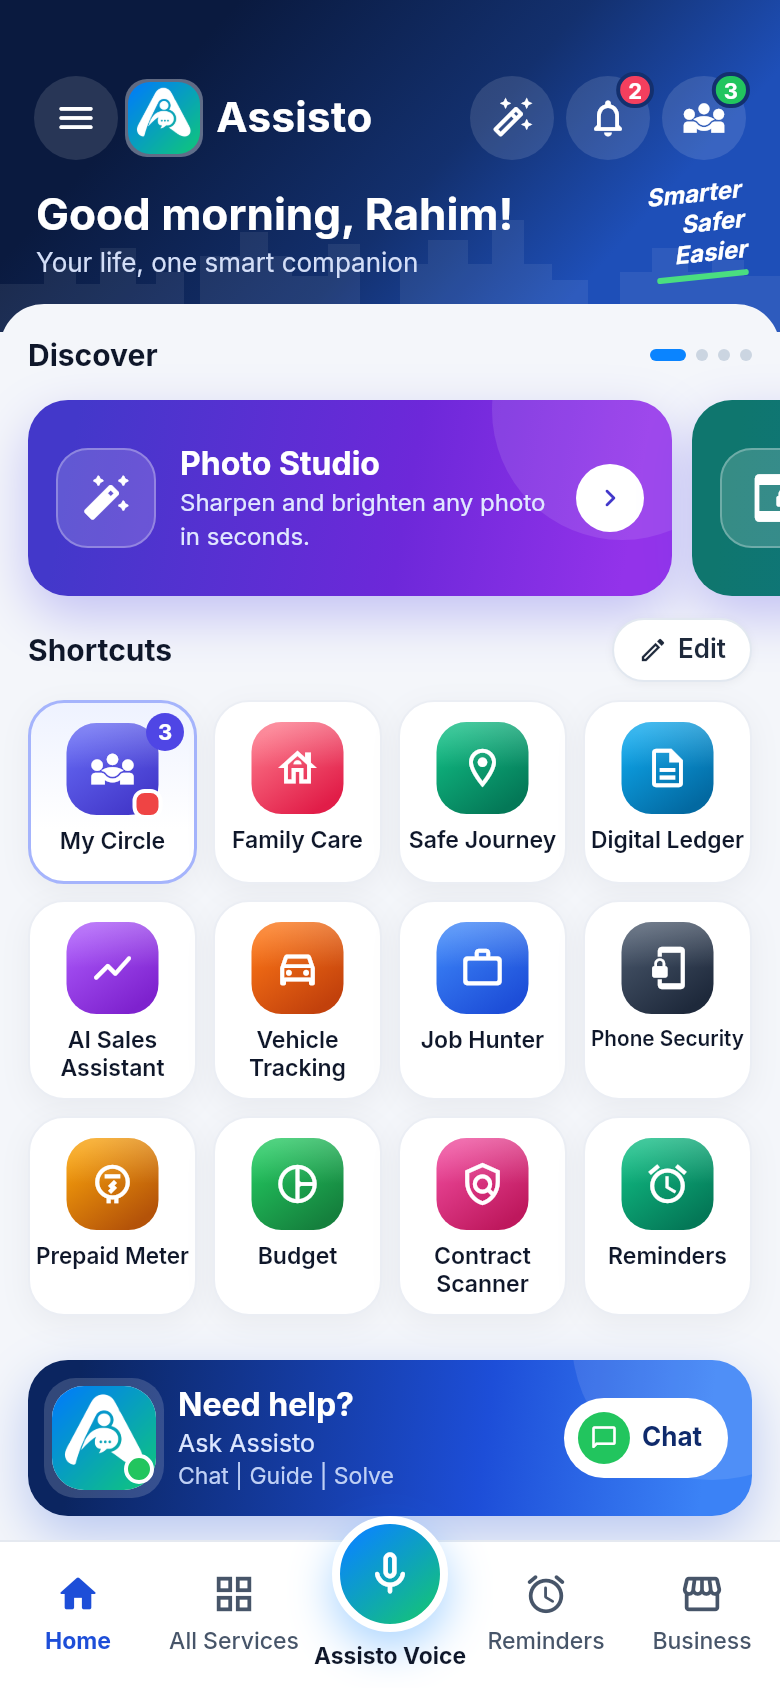
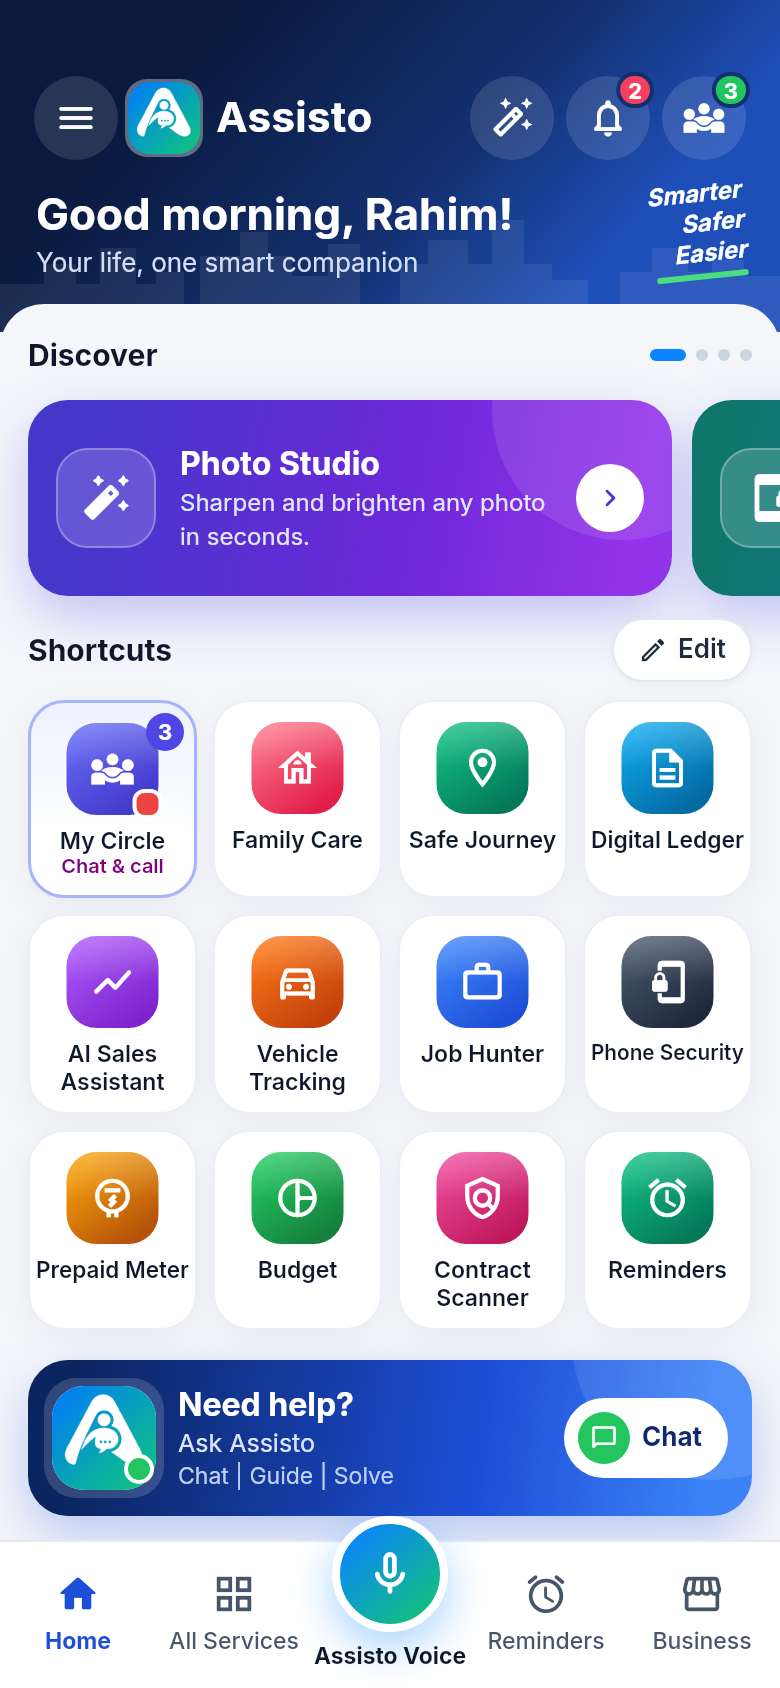
home v2: pinned My Circle tile subtitle 'Chat & call' / 'চ্যাট ও কল' (10 sp w600, #800080 light / #E08AE0 dark, one line, ellipsis) + TalkBack 'My Circle, chat and call' (owner 26 Oct)

diff --git a/app/lib/screens/home_v2/home_v2_shortcuts.dart b/app/lib/screens/home_v2/home_v2_shortcuts.dart
@@ -279,6 +279,8 @@ class _HomeV2ShortcutsSectionState extends State<HomeV2ShortcutsSection> {
                   route: HomeQuickButtons.pinnedRoute,
                   icon: Icons.diversity_3,
                   label: t.sidebarMyCircle,
+                  subtitle: t.hv2CircleSub,
+                  semanticsLabel: t.hv2CircleA11y,
                   pinned: true,
                   unread: b.unread,
                   missed: b.missed,
@@ -409,6 +411,13 @@ class HomeV2Tile extends StatelessWidget {
   final String route;
   final IconData icon;
   final String label;
+
+  /// One line under the title (only the pinned My Circle tile uses it).
+  final String? subtitle;
+
+  /// Screen-reader name when it differs from [label] (e.g. "My Circle,
+  /// chat and call"); the unread / missed parts are added after it.
+  final String? semanticsLabel;
   final bool pinned;
   final int unread;
   final bool missed;
@@ -420,6 +429,8 @@ class HomeV2Tile extends StatelessWidget {
     required this.icon,
     required this.label,
     required this.onTap,
+    this.subtitle,
+    this.semanticsLabel,
     this.onLongPress,
     this.pinned = false,
     this.unread = 0,
@@ -435,7 +446,7 @@ class HomeV2Tile extends StatelessWidget {
     final radius = BorderRadius.circular(HV2.tileRadius);
     final count = circleBadgeLabel(unread, t.localeName);
     final a11y = [
-      label,
+      semanticsLabel ?? label,
       if (unread > 0) t.hcUnread(count),
       if (missed) t.hcMissed,
     ].join('. ');
@@ -542,6 +553,21 @@ class HomeV2Tile extends StatelessWidget {
                                 fontWeight: FontWeight.w600,
                                 color: p.tileLabel)),
                       ),
+                      if (subtitle != null)
+                        MediaQuery.withClampedTextScaling(
+                          maxScaleFactor: HV2.tileLabelMaxScale,
+                          child: Text(subtitle!,
+                              key: const ValueKey('hv2_tile_subtitle'),
+                              maxLines: 1,
+                              softWrap: false,
+                              overflow: TextOverflow.ellipsis,
+                              textAlign: TextAlign.center,
+                              style: TextStyle(
+                                  fontSize: HV2.tileSub,
+                                  height: 1.15,
+                                  fontWeight: FontWeight.w600,
+                                  color: p.circleSub)),
+                        ),
                     ]),
               ),
               if (unread > 0)

diff --git a/app/test/home_v2_test.dart b/app/test/home_v2_test.dart
@@ -305,6 +305,41 @@ void main() {
       }
     }
 
+    // owner 26 Oct (build 250): one-line purple subtitle on the pinned
+    // My Circle tile only; screen reader says "My Circle, chat and call".
+    for (final lang in ['en', 'bn']) {
+      for (final dark in [false, true]) {
+        testWidgets('My Circle subtitle, one line at 200 % ($lang dark=$dark)',
+            (tester) async {
+          await _pump(tester, _home(),
+              lang: lang, dark: dark, scale: 2.0, size: const Size(360, 800));
+          expect(tester.takeException(), isNull);
+          final t = lookupAppLocalizations(Locale(lang));
+          final sub = find.byKey(const ValueKey('hv2_tile_subtitle'));
+          expect(sub, findsOneWidget); // only the pinned tile has one
+          expect(
+              find.descendant(
+                  of: find.byKey(const ValueKey('hv2_tile_circle')),
+                  matching: sub),
+              findsOneWidget);
+          final w = tester.widget<Text>(sub);
+          expect(w.data, t.hv2CircleSub);
+          expect(w.maxLines, 1);
+          expect(w.overflow, TextOverflow.ellipsis);
+          expect(w.style!.fontWeight, FontWeight.w600);
+          expect(w.style!.color,
+              dark ? const Color(0xFFE08AE0) : const Color(0xFF800080));
+          // one line: its height is about one line even at 200 %
+          final h = tester.getSize(sub).height;
+          expect(h, lessThan(w.style!.fontSize! * 1.6 * 1.6));
+          final tile = tester.getSemantics(
+              find.byKey(const ValueKey('hv2_tile_circle')));
+          expect(tile.label, startsWith(t.hv2CircleA11y));
+          await _unmount(tester);
+        });
+      }
+    }
+
     testWidgets('normal font: 4 columns', (tester) async {
       await _pump(tester, _home());
       final a = tester.getTopLeft(find.byKey(const ValueKey('hv2_tile_circle')));

diff --git a/app/lib/theme.dart b/app/lib/theme.dart
@@ -674,6 +674,7 @@ class HomeV2Palette {
     required this.tileBorder,
     required this.tileShadow,
     required this.tileLabel,
+    required this.circleSub,
     required this.pinBorder,
     required this.pinTop,
     required this.chip,
@@ -701,6 +702,9 @@ class HomeV2Palette {
   final Color tileBorder;
   final Color tileShadow;
   final Color tileLabel;
+
+  /// Pinned My Circle subtitle (owner 26 Oct): purple, >= 4.5:1 on its tile.
+  final Color circleSub;
   final Color pinBorder;
   final Color pinTop;
   final Color chip;
@@ -731,6 +735,7 @@ class HomeV2Palette {
     tileBorder: Color(0xFFEBEEF4),
     tileShadow: Color(0x0D0F172A), // rgba(15,23,42,.05)
     tileLabel: Color(0xFF0F172A),
+    circleSub: Color(0xFF800080),
     pinBorder: Color(0xFFA5B4FC),
     pinTop: Color(0xFFEEF2FF),
     chip: Colors.white,
@@ -759,6 +764,7 @@ class HomeV2Palette {
     tileBorder: Color(0xFF222D45),
     tileShadow: Color(0x33000000),
     tileLabel: Color(0xFFE2E8F0),
+    circleSub: Color(0xFFE08AE0),
     pinBorder: Color(0xFF6366F1),
     pinTop: Color(0xFF1E1B4B),
     chip: Color(0xFF141C2F),

diff --git a/app/lib/screens/home_v2/home_v2_tokens.dart b/app/lib/screens/home_v2/home_v2_tokens.dart
@@ -89,6 +89,9 @@ class HV2 {
   static const squircleRadius = 15.0;
   static const squircleIcon = 23.0;
   static const tileLabel = 11.5;
+
+  /// Pinned My Circle subtitle (owner 26 Oct): ~10 sp, w600, one line.
+  static const tileSub = 10.0;
   static const tileLabelHeight = 1.25;
   static const tileAngleDeg = 145.0;
   static const countPillH = 19.0;
